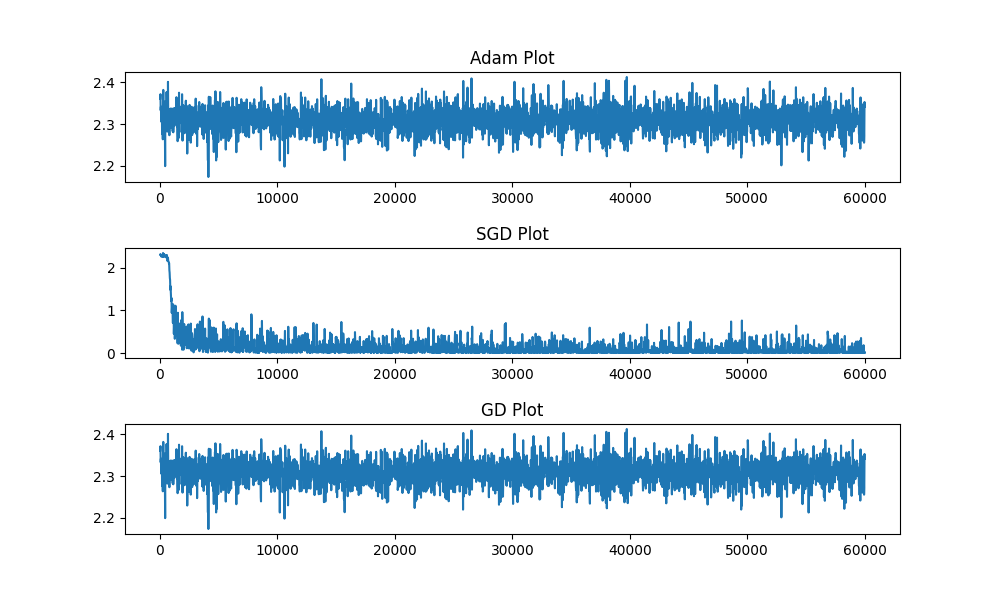
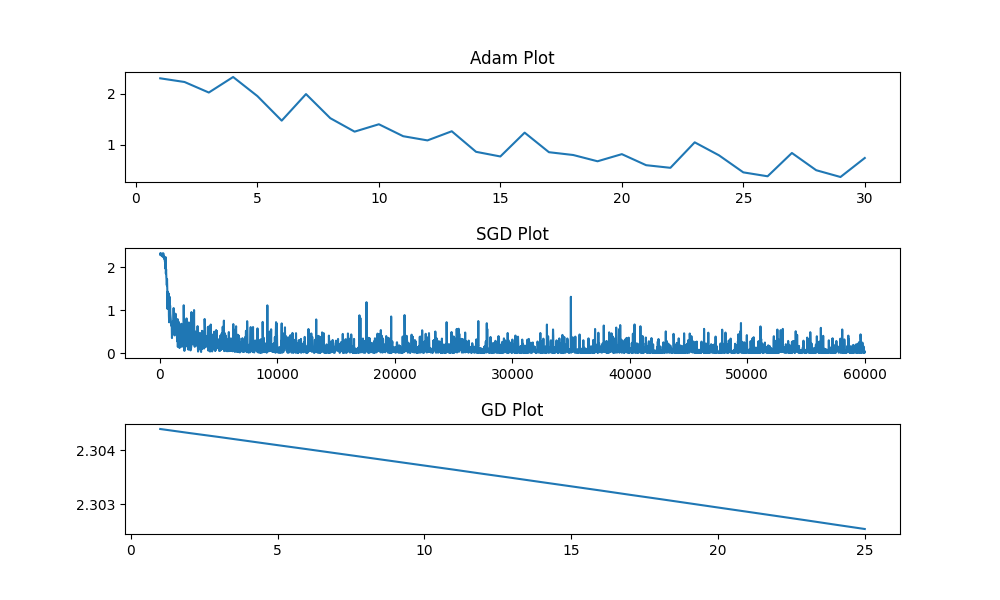
update

diff --git a/codes/task1/pytorch/model.py b/codes/task1/pytorch/model.py
@@ -5,6 +5,7 @@ import torch.nn.functional as F
 import torchvision
 from MyOptimizer import GdOptimizer, AdamOptimizer
 import numpy as np
+import argparse
 
 class Net(nn.Module):
     def __init__(self, in_channels=1, num_classes=10):
@@ -31,7 +32,7 @@ class Net(nn.Module):
 
         return out
 
-def train(model, dataloader, optimizer, loss_fn, num_epochs=1):
+def train(model, dataloader, optimizer, loss_fn, num_epochs=1, optim="sgd"):
     print("Start training ...")
     loss_total = 0.
     model.train()
@@ -53,17 +54,31 @@ def train(model, dataloader, optimizer, loss_fn, num_epochs=1):
             loss.backward()
             optimizer.step()
 
-            
             loss_total += loss.item()
-            if i % 20 == 19:    
+
+            if i % 100 == 0:    
+                print('epoch: %d, iters: %5d, loss: %.3f' % (epoch + 1, i + 1, loss_total / 20))
+
+            if optim=="sgd" and i % 20 == 19:    
                 # print('epoch: %d, iters: %5d, loss: %.3f' % (epoch + 1, i + 1, loss_total / 20))
                 loss_records.append(loss_total / 20)
                 iteration_records.append(i + 1)
                 loss_total = 0.0
+
+            elif optim=="adam":    
+                # print('epoch: %d, iters: %5d, loss: %.3f' % (epoch + 1, i + 1, loss_total / 20))
+                loss_records.append(loss_total)
+                iteration_records.append(epoch * len(dataloader) + i + 1)
+                loss_total = 0.0
+
+            elif optim == "gd":
+                loss_records.append(loss_total)
+                iteration_records.append(epoch + 1)
+                loss_total = 0.0
     
     # code changed
-    np.save('./gd_loss_records', np.asanyarray(loss_records))
-    np.save('./gd_itr_records', np.asanyarray(iteration_records))
+    np.save('./{}_loss_records'.format(optim), np.asanyarray(loss_records))
+    np.save('./{}_itr_records'.format(optim), np.asanyarray(iteration_records))
 
     print("Training Finished!")
 
@@ -82,10 +97,22 @@ def test(model: nn.Module, test_loader):
     print('\nTest set: Accuracy: {}/{} ({:.2f}%)\n'.format(
         correct, size,
         100 * correct / size))
+    
+def parse_args():
+    parser = argparse.ArgumentParser()
+    parser.add_argument("--optim", default="sgd", type=str, help="Set the optimizer", choices=['adam', 'gd', 'sgd'])
+
+    args = parser.parse_args()
+
+    return args
+
+
 
 def main():
     model = Net(in_channels=1, num_classes=10)
     model.cuda()
+
+    args = parse_args()
 
     DATA_PATH = "./data"
 
@@ -96,14 +123,42 @@ def main():
     train_set = torchvision.datasets.MNIST(DATA_PATH, train=True, download=True, transform=transform)
     test_set = torchvision.datasets.MNIST(DATA_PATH, train=False, download=True, transform=transform)
 
-    train_loader = torch.utils.data.DataLoader(train_set, batch_size=1, shuffle=True)
+    # SGD setting
+    train_loader_sgd = torch.utils.data.DataLoader(train_set, batch_size=1, shuffle=True)
+
+    # ADAM setting
+    train_loader_adam = torch.utils.data.DataLoader(train_set, batch_size=10000, shuffle=True)
+
+    # GD setting
+    train_loader_gd = torch.utils.data.DataLoader(train_set, batch_size=len(train_set), shuffle=True)
+
+    MATCH_DICT = {
+        "sgd": {
+            "train_loader": train_loader_sgd,
+            "epoch": 1,
+            "optim": GdOptimizer(model.parameters(), lr=0.01)
+        },
+        "adam": {
+            "train_loader": train_loader_adam,
+            "epoch": 5,
+            "optim": AdamOptimizer(model.parameters(), lr=0.01, b1=0.03, b2=0.05)
+        },
+        "gd": {
+            "train_loader": train_loader_gd,
+            "epoch": 25,
+            "optim": GdOptimizer(model.parameters(), lr=0.01)
+        },
+    }
+
+    train_loader = MATCH_DICT[args.optim]["train_loader"]
+
     test_loader = torch.utils.data.DataLoader(test_set, batch_size=32, shuffle=False)
 
     loss_fn = nn.CrossEntropyLoss()
-    # optimizer = GdOptimizer(model.parameters(), lr=0.01)
-    optimizer = AdamOptimizer(model.parameters(), lr=0.01, b1=0.2, b2=0.3)
+    
+    optimizer =  MATCH_DICT[args.optim]["optim"]
 
-    train(model, train_loader, optimizer, loss_fn)
+    train(model, train_loader, optimizer, loss_fn, optim=args.optim, num_epochs=MATCH_DICT[args.optim]["epoch"])
     test(model, test_loader)
 
 if __name__ == "__main__":

diff --git a/codes/task1/pytorch/visualization.py b/codes/task1/pytorch/visualization.py
@@ -7,6 +7,9 @@ def main():
     adam_itrs = np.load('./adam_itr_records.npy')
     adam_loss_records = np.load('./adam_loss_records.npy')
 
+    gd_itrs = np.load('./gd_itr_records.npy')
+    gd_loss_records = np.load('./gd_loss_records.npy')
+
     sgd_itrs = np.load('./sgd_itr_records.npy')
     sgd_loss_records = np.load('./sgd_loss_records.npy')
 
@@ -27,7 +30,7 @@ def main():
     axarr[1].plot(sgd_itrs, sgd_loss_records, label='Training Loss')
 
     axarr[2].title.set_text('GD Plot')
-    axarr[2].plot(adam_itrs, adam_loss_records, label='Training Loss')
+    axarr[2].plot(gd_itrs, gd_loss_records, label='Training Loss')
 
     plt.savefig('./loss-graphic.png', orientation='landscape')
     plt.show()

diff --git a/codes/task2/dist_utils.py b/codes/task2/dist_utils.py
@@ -54,11 +54,12 @@ def allreduce_average_gradients(model):
 
 def allgather_average_gradients(model):
     # your code here
-    gradients = [param.grad.data.clone() for param in model.parameters() if param.grad is not None]
+    gradients = [torch.Tensor(param.grad.data.clone()) for param in model.parameters() if param.grad is not None]
+    # gradients = torch.Tensor(gradients )
     all_gradients = [torch.zeros_like(gradient) for gradient in gradients]
     dist.all_gather(all_gradients, gradients)
 
-    num_processes = dist.get_world_size()
+    num_processes = float(dist.get_world_size())
     for gradient in all_gradients:
         gradient.div_(num_processes)
     

diff --git a/codes/task2/model.py b/codes/task2/model.py
@@ -58,8 +58,10 @@ def train(model, dataloader, loss_fn, optimizer, num_epochs=2):
 
             optimizer.zero_grad()
             loss.backward()
-            # averge the gradients of model parameters
-            dist_utils.allreduce_average_gradients(model)
+
+            # average the gradients of model parameters
+            # dist_utils.allreduce_average_gradients(model)
+            dist_utils.allgather_average_gradients(model)
 
             optimizer.step()
             loss_total += loss.item()
